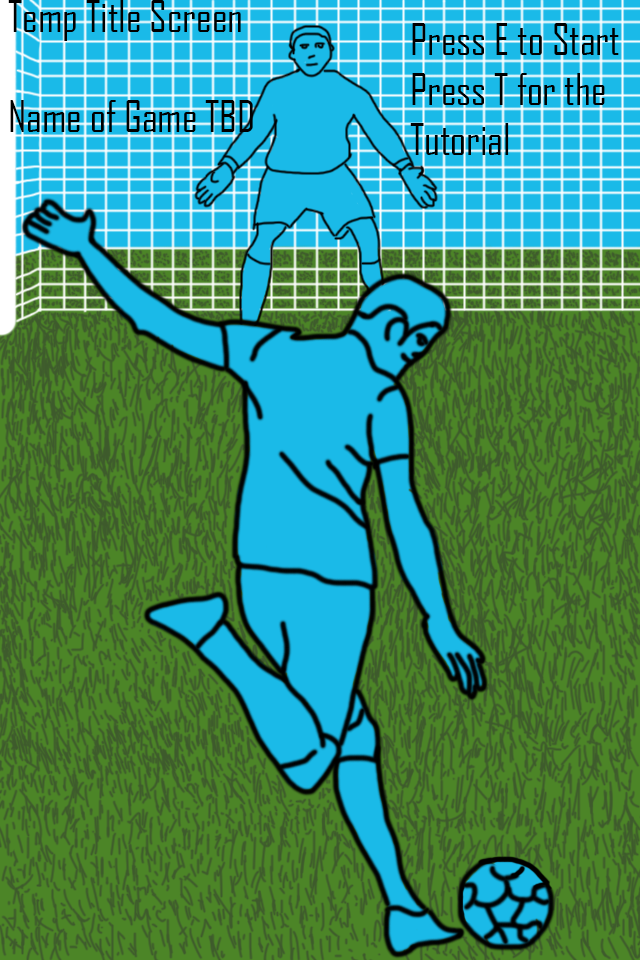
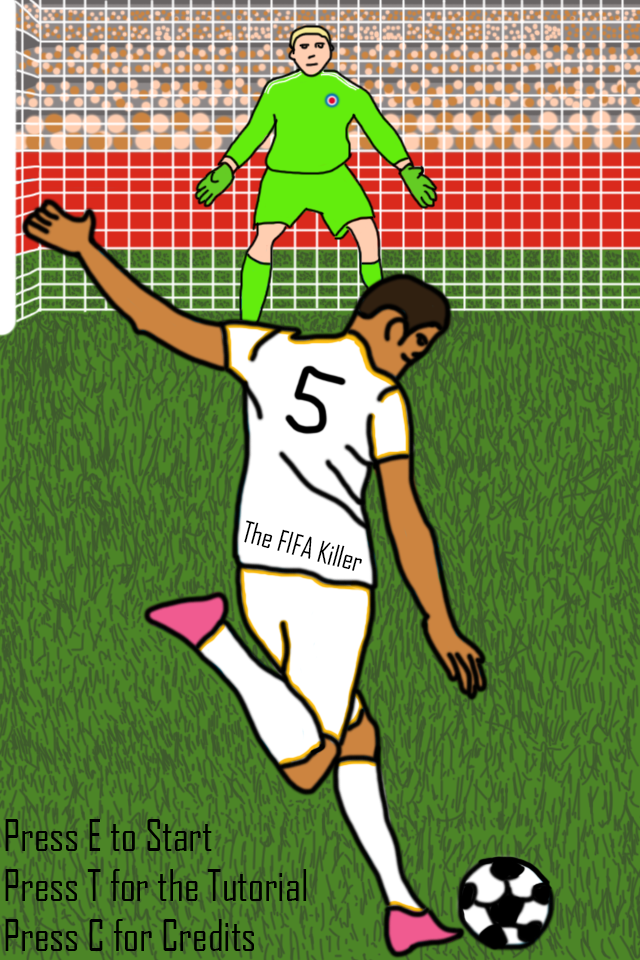
Title Screen Complete; other menu changes to come

diff --git a/src/scenes/Menu.js b/src/scenes/Menu.js
@@ -13,6 +13,7 @@ class Menu extends Phaser.Scene {
 
         this.keyE = this.input.keyboard.addKey(Phaser.Input.Keyboard.KeyCodes.E);
         this.keyT = this.input.keyboard.addKey(Phaser.Input.Keyboard.KeyCodes.T);
+        this.keyC = this.input.keyboard.addKey(Phaser.Input.Keyboard.KeyCodes.C);
         
         // create title screen image
         this.add.sprite(game.config.width / 2, game.config.height / 2, 'title');
@@ -40,6 +41,11 @@ class Menu extends Phaser.Scene {
         {
             this.titleSong.stop();
             this.scene.start('tutorialScene');
+        }
+
+        if(Phaser.Input.Keyboard.JustDown(this.keyC)) {
+            this.titleSong.stop();
+            this.scene.start('creditScene');
         }
     }
 }

diff --git a/index.html b/index.html
@@ -3,10 +3,11 @@
 <head>
     <meta charset="UTF-8">
     <meta name="viewport" content="width=device-width, initial-scale=1.0">
-    <title>RNGolf</title>
+    <title>TheFIFAKiller</title>
     <script src="./lib/phaser.js"></script>
     <script src="./src/scenes/Load.js"></script>
     <script src="./src/scenes/Menu.js"></script>
+    <script src="./src/scenes/Credits.js"></script>
     <script src="./src/scenes/Tutorial.js"></script>
     <script src="./src/scenes/Play.js"></script>
     <script src="./src/main.js"></script>

diff --git a/src/scenes/Credits.js b/src/scenes/Credits.js
@@ -1,0 +1,10 @@
+class Credits extends Phaser.Scene {
+    constructor() {
+        super('creditScene')
+    }
+
+    create()
+    {
+        this.add.sprite(game.config.width / 2, game.config.height / 2, 'tempTutorial');
+    }
+}

diff --git a/src/main.js b/src/main.js
@@ -10,7 +10,7 @@ let config = {
             debug: true
         }
     },
-    scene: [ Load, Menu, Tutorial, Play ]
+    scene: [ Load, Menu, Credits, Tutorial, Play ]
 }
 
 let game = new Phaser.Game(config)
